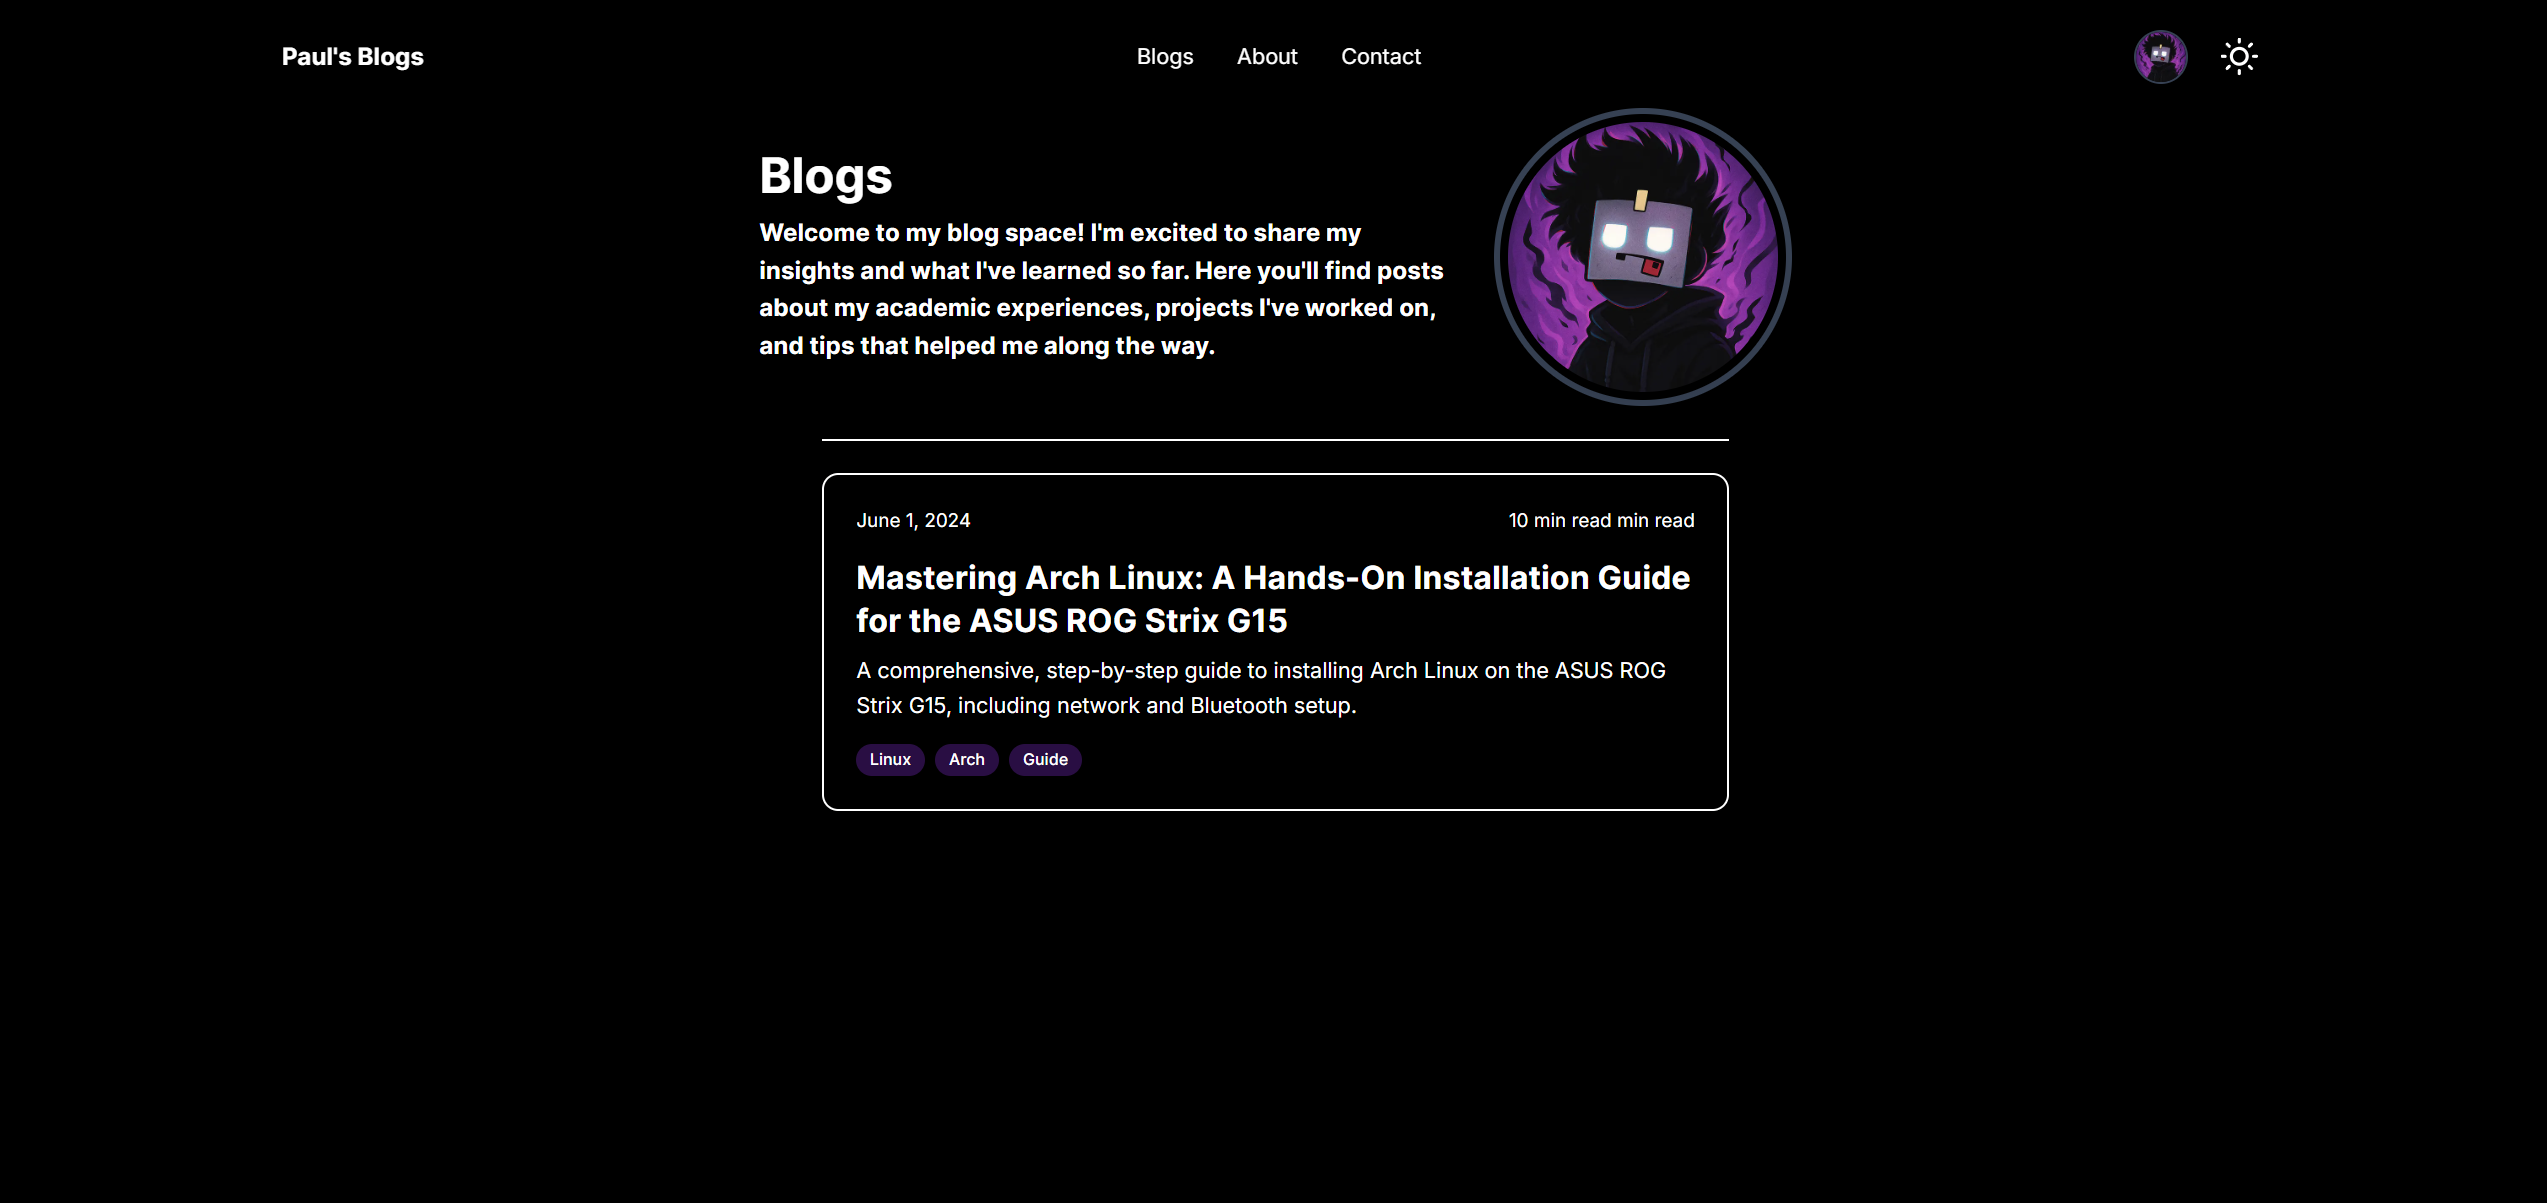
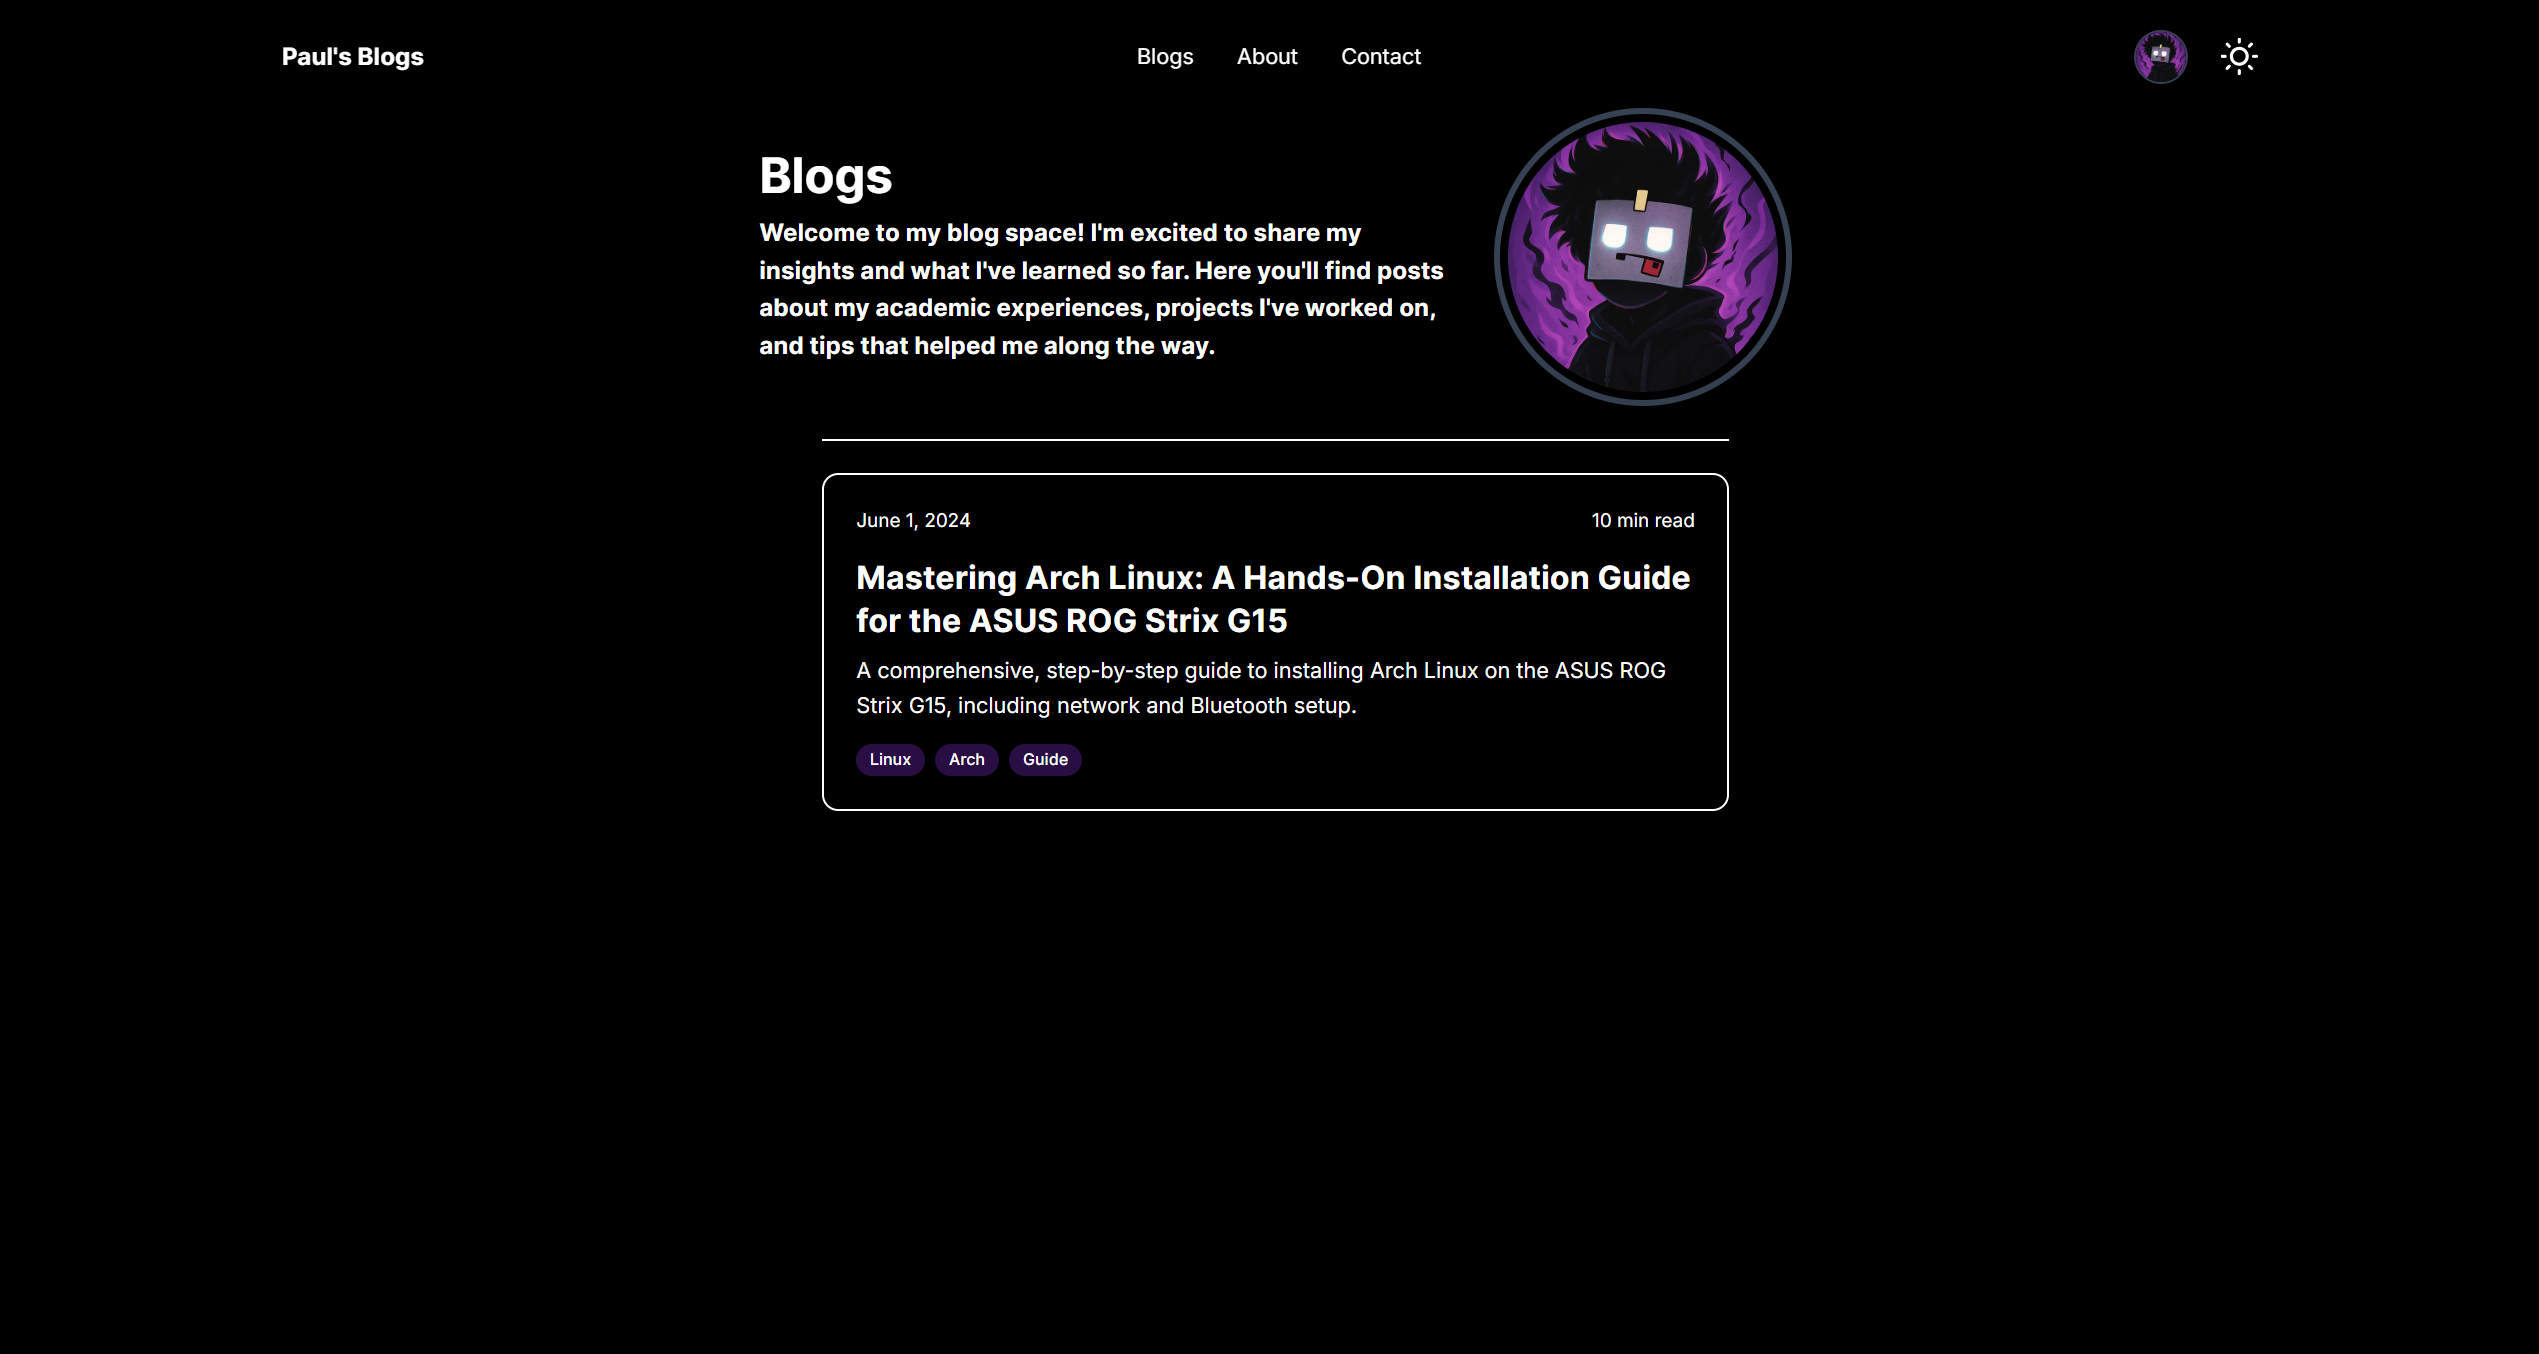
new read me and minor ui fix

diff --git a/src/app/Blogs/page.tsx b/src/app/Blogs/page.tsx
@@ -61,7 +61,7 @@ export default function Page() {
                 <span>
                   <ClientDate dateString={blog.createdAt} />
                 </span>
-                <span>{blog.read} min read</span>
+                <span>{blog.read}</span>
               </div>
 
               {/* MAIN CONTENT */}

diff --git a/README.md b/README.md
@@ -1,6 +1,6 @@
 # Paul's Blog - Personal Tech Blog
 
-![Blog Screenshot](/public/template.png) <!-- Assuming there's a screenshot in public; adjust if needed -->
+![Blog Screenshot](/public/template.png)
 
 A modern, responsive personal blogging platform built with Next.js, TypeScript, and Tailwind CSS. Share your technical insights, coding tutorials, and creative content through an elegant, SEO-optimized interface.
 
@@ -55,7 +55,7 @@ It's more than just a blog—it's a learning tool and a showcase of my developme
 1. Clone the repository:
 
    ```bash
-   git clone https://github.com/yourusername/my-blogs.git
+   git clone https://github.com/Mr-Rahul-Paul/my-blogs.git
    cd my-blogs
    ```
 
@@ -92,27 +92,16 @@ Deploy easily to Vercel:
 ## 📸 Screenshots
 
 ![Home Page](/public/template.png)
-![Blog Post](/public/template2.png) <!-- Add actual screenshots -->
-![Blog Post](/public/template3.png) <!-- Add actual screenshots -->
-
-## 🤝 Contributing
-
-Contributions are welcome! Please feel free to submit a Pull Request.
-
-1. Fork the repository
-2. Create your feature branch (`git checkout -b feature/AmazingFeature`)
-3. Commit your changes (`git commit -m 'Add some AmazingFeature'`)
-4. Push to the branch (`git push origin feature/AmazingFeature`)
-5. Open a Pull Request
+![Blog Post](/public/template2.png)
 
 ## 📄 License
 
-This project is licensed under the MIT License - see the [LICENSE](LICENSE) file for details.
+This project is licensed under the MIT License.
 
 ## 👤 Author
 
-- Paul
-- GitHub: [@yourusername](https://github.com/yourusername)
-- Email: your.email@example.com
+- **Rahul Paul**
+- GitHub: [@Mr-Rahul-Paul](https://github.com/Mr-Rahul-Paul)
+- Email: rpaul29120@gmail.com
 
 Happy blogging! 🚀
